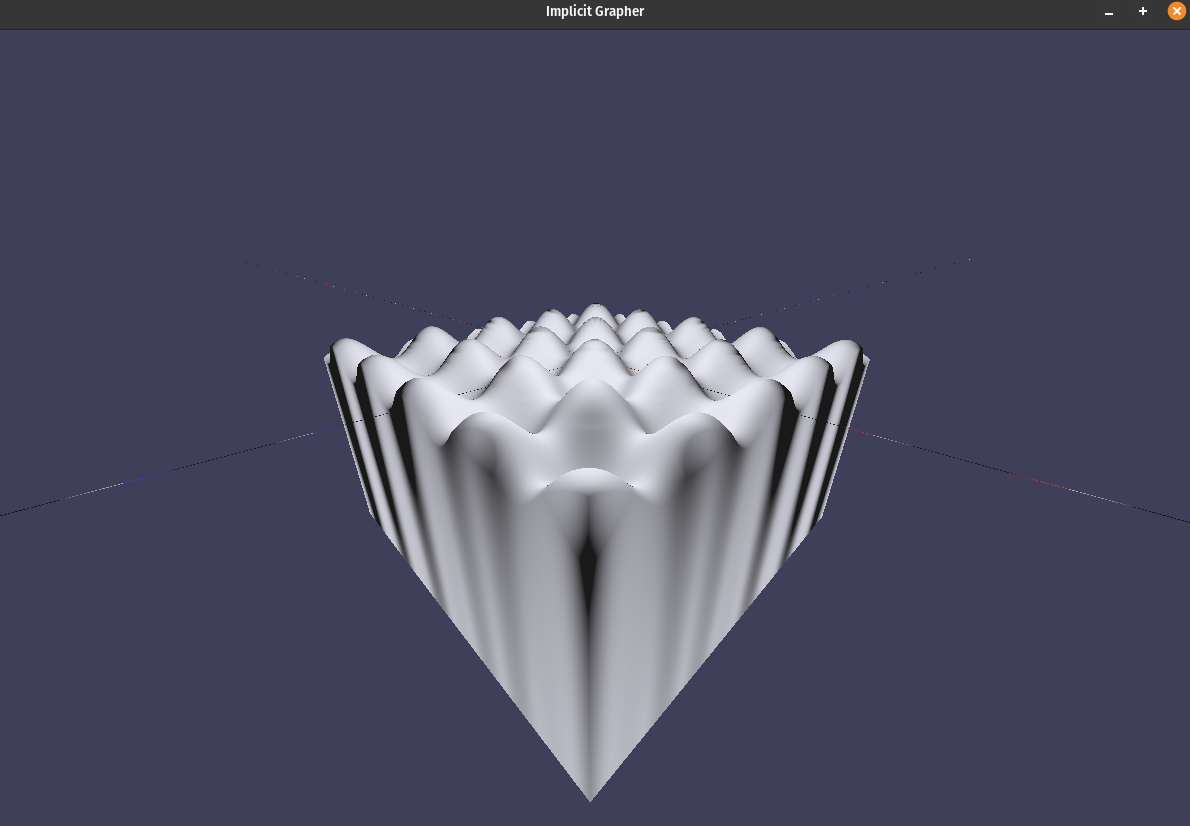
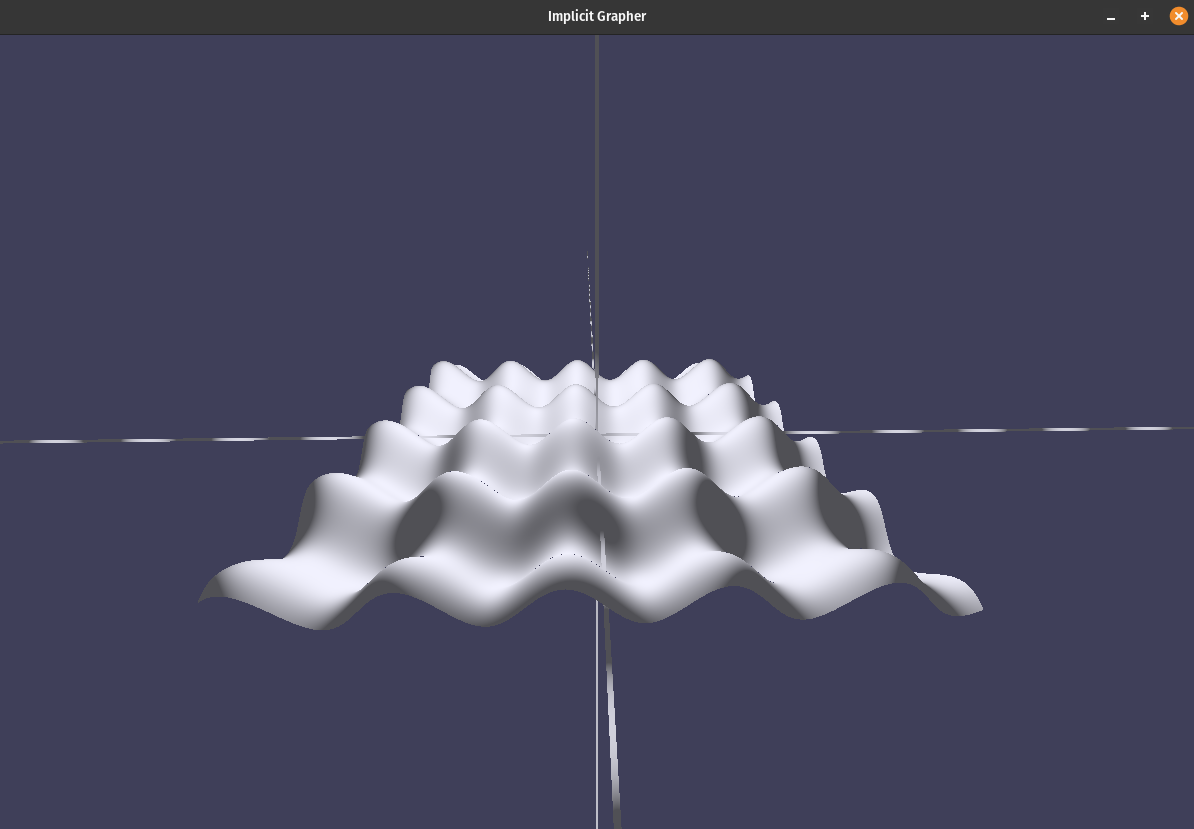
Updating README and goals of the project

diff --git a/README.md b/README.md
@@ -15,12 +15,17 @@ This project is my second large learning project journey into GPU programming.
 
 ## Milestones
 
+### Third Focus
+
+- [ ] Adding a better camera (Quaternions)
+- [ ] Testing other methods of raymarching (step marching)
+
 ### Second Focus
 
 - [x] Basic Transpiler
 - [x] Handling User Implicit Equation in Realtime
-- [ ] Handling Shading artifacts and dark spots
-- [ ] Adding a better camera (Quaternions)
+- [x] Handling Shading artifacts and dark spots
+- [ ] Adding Antialiasing
 
 ### First Focus
 
